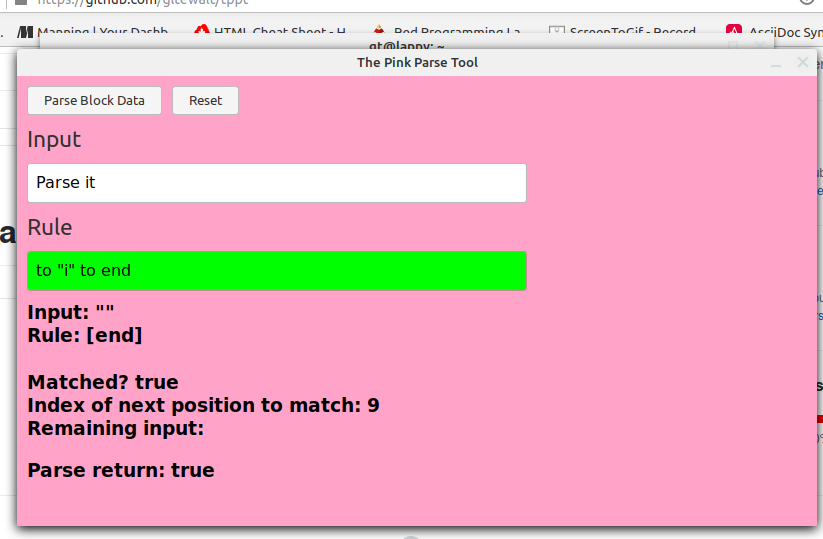
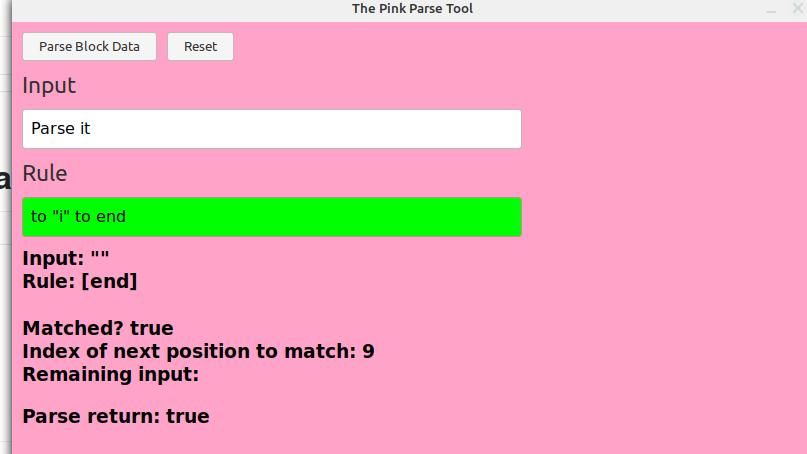
Adjust png files and README

Changed region(s): [[0.0, 0.0, 1.0, 1.0]]

diff --git a/README.md b/README.md
@@ -3,13 +3,14 @@
 ## Usage
 
 ----
-#### Type in your input.
+
+Type in your input.
 
 ![input](assets/type-input.png)
 
 ----
 
-#### Type in your rule. 
+Type in your rule. 
 
 It will check if it passes or fails as you type. Clearing the field will reset some things :)
 
@@ -17,6 +18,6 @@ It will check if it passes or fails as you type. Clearing the field will reset s
 
 ----
 
-#### Toggle to parse Block values.
+Toggle to parse Block values.
 
 ![block](assets/blocks.png)
